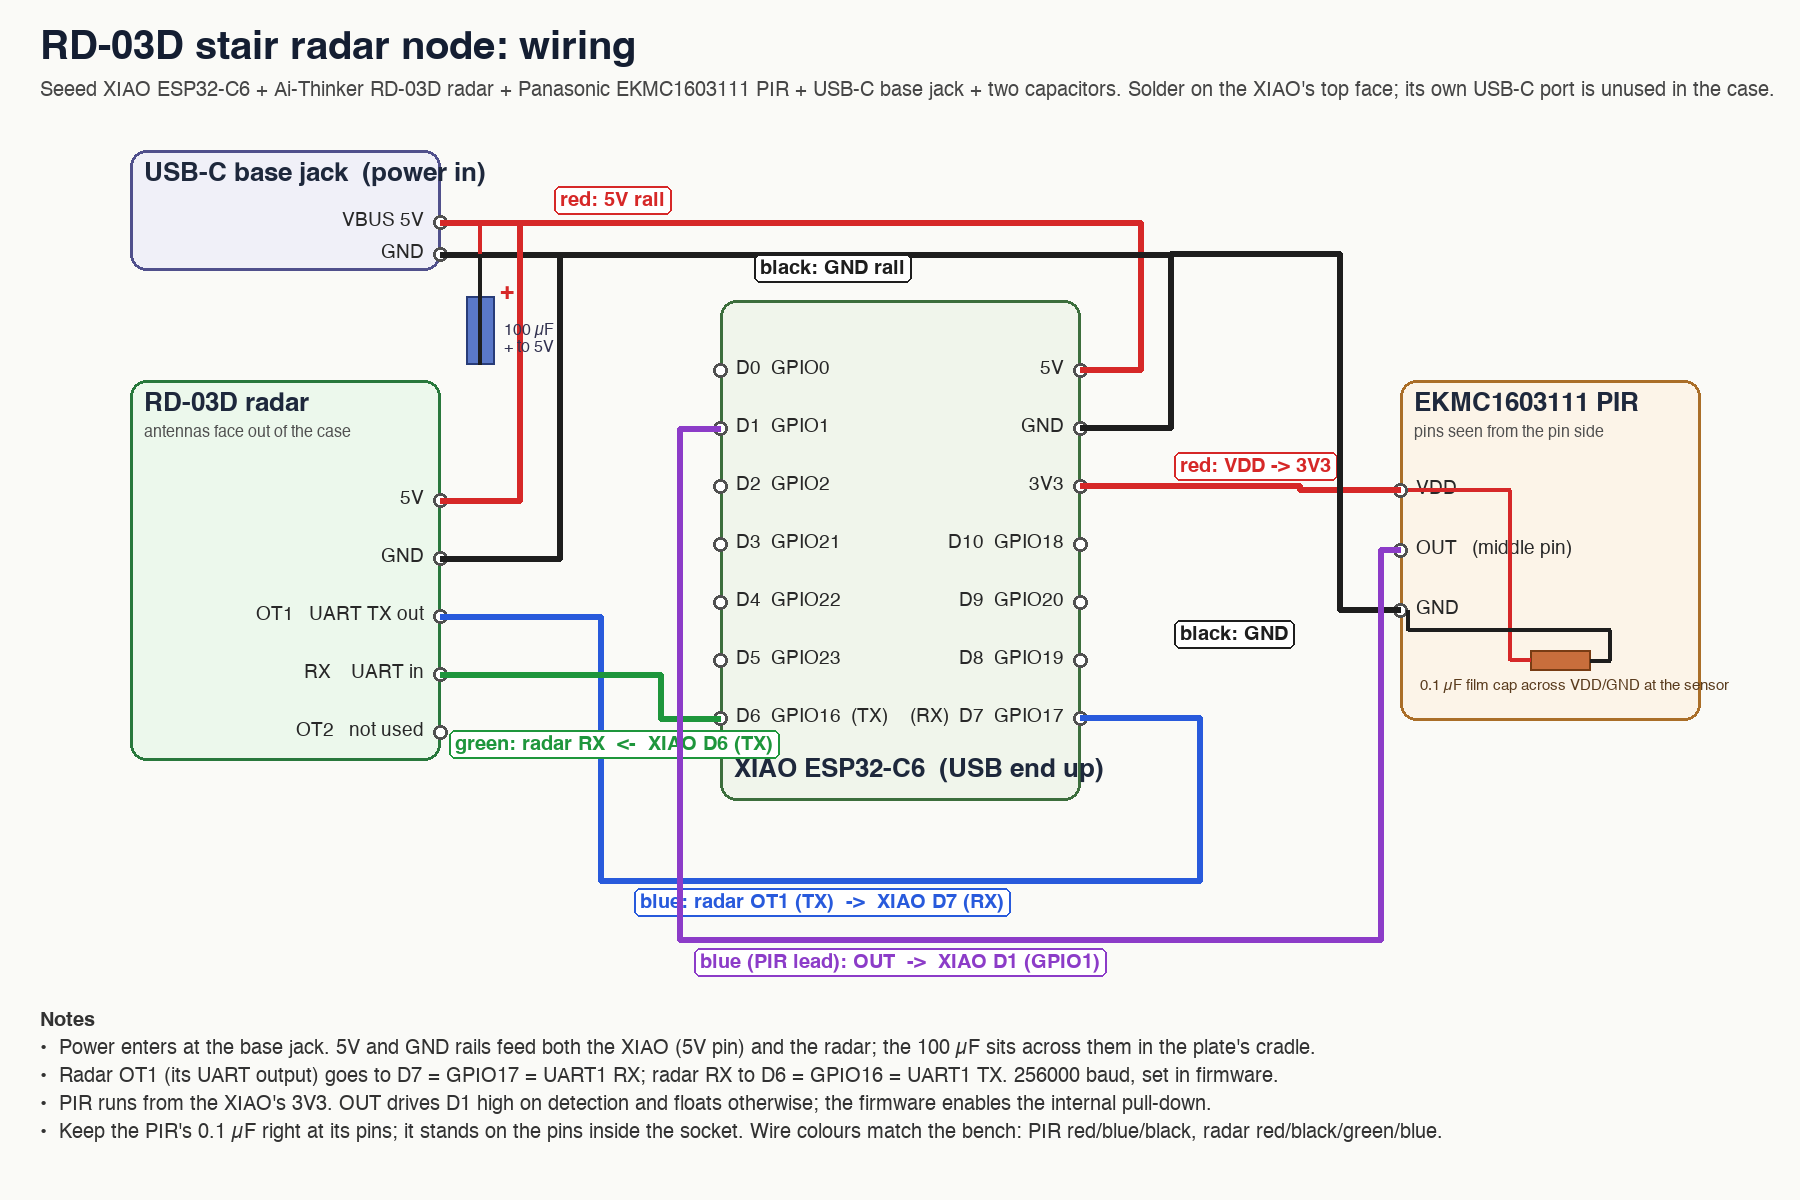
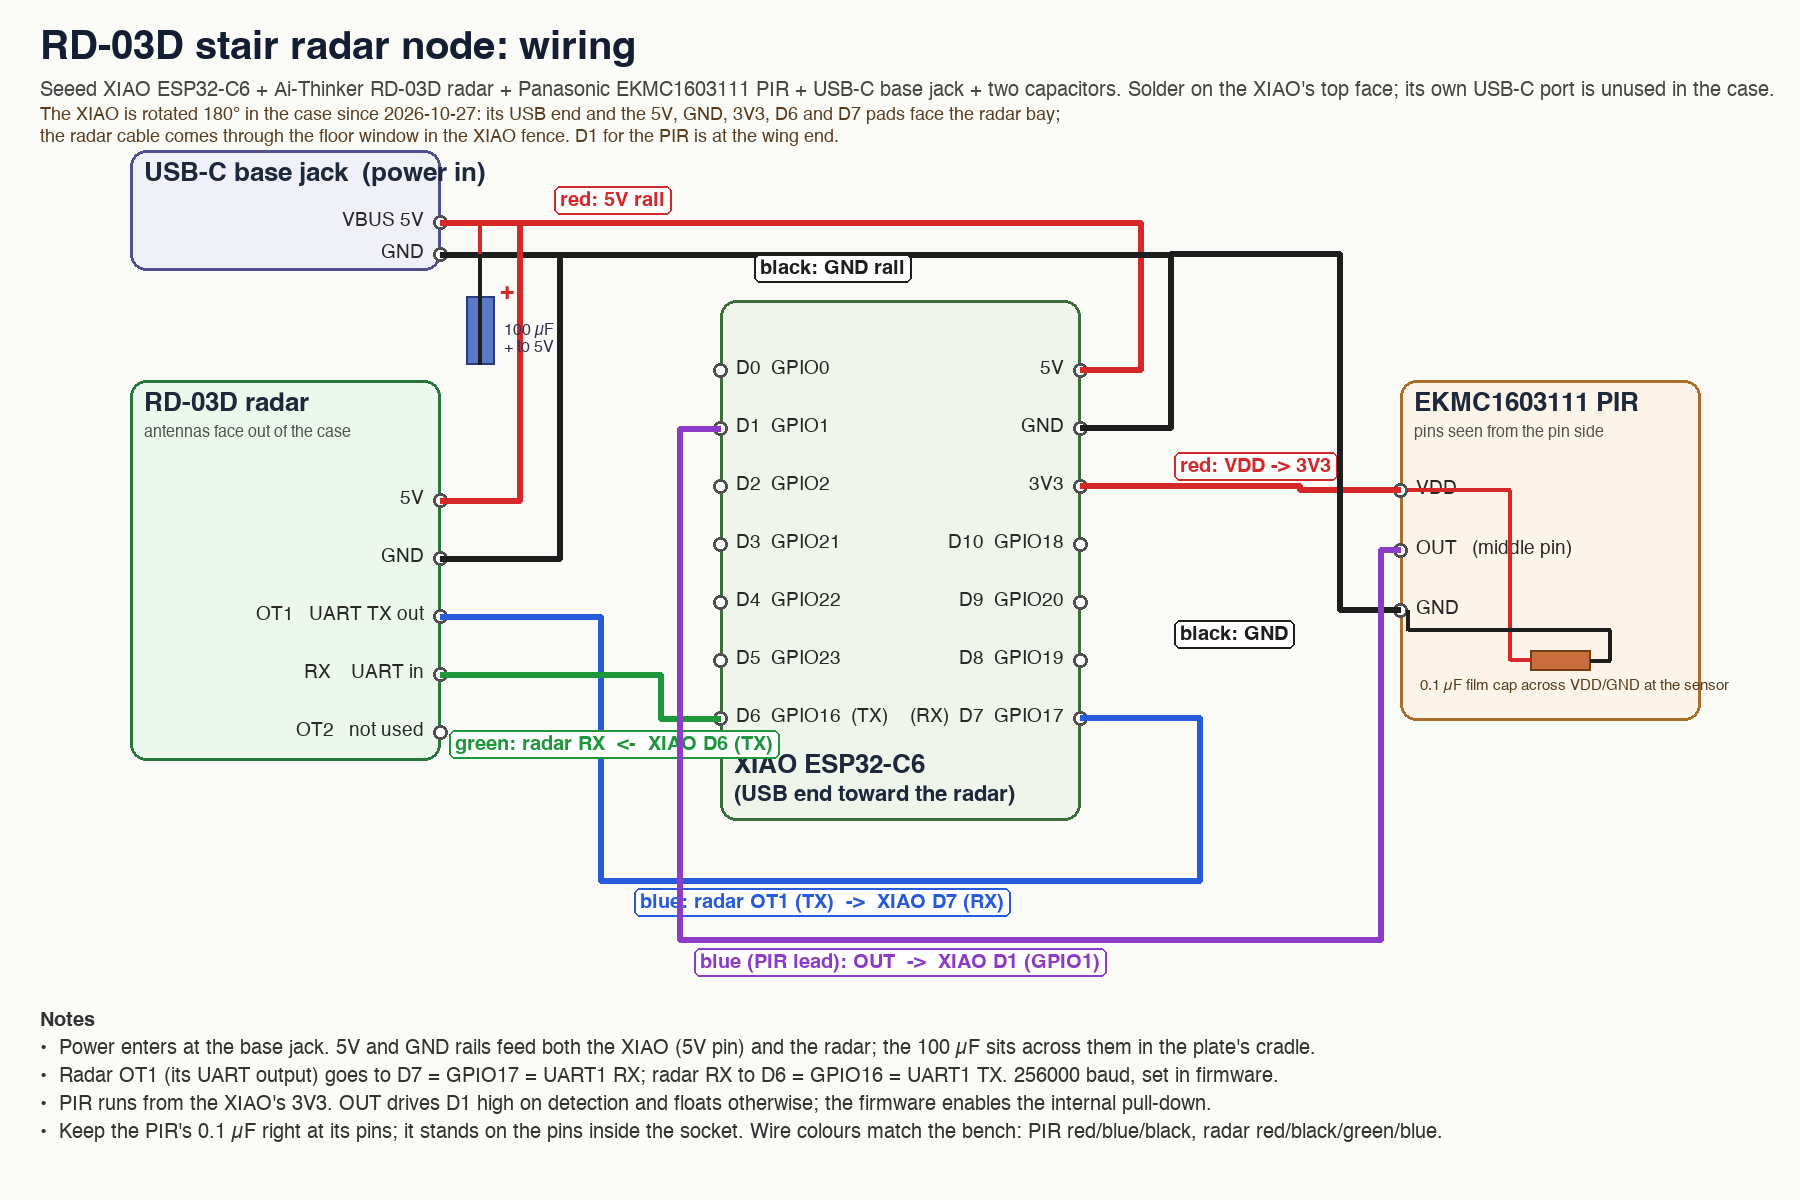
docs: wiring diagram for the rotated XIAO; as-built notes for the pin plate

Changed region(s): [[0.0311, 0.0925, 0.5911, 0.1233], [0.4044, 0.6167, 0.6222, 0.6783]]

diff --git a/docs/superpowers/plans/2026-10-27-plate-locating-pins.md b/docs/superpowers/plans/2026-10-27-plate-locating-pins.md
@@ -598,3 +598,14 @@ Co-Authored-By: Claude Fable 5.1 <noreply@anthropic.com>"
 - Verification list in the spec: Task 1 and Task 3 step 1 probes; 91 in Task 5.
 - Docs: Task 6.
 - No TBD/TODO placeholders; the only angle brackets are in the as-built template that Task 6 fills.
+
+## As built (2026-10-27)
+
+- Probe numbers behind the design (read-only, placed vendor body, case mm): notch centres (-18.25, -21.40) and (-4.75, +21.30), arc radius 1.14 confirmed from the centre in both inboard directions (1.14/1.12 and 1.14/1.16); the other two corners solid at r 1.8 roundings. Bare PCB rear at 10.46 over y -22.0..-20.7 and +19.8..+22.0 full width; connector from y -20.7, lowest z 6.64, x -15.3..-9.3; passives to z 9.0..9.3 mid-board.
+- 02 step prints: `radar bay ok (X walls + end bars bearing on the PCB ends; Y-location is the corner pins' job), bar top z(mm)= 10.46`; `radar fence +X wall opened floor to top over |y| < 9.4`; `wire window ok (XIAO fence -X wall, |y| < 3.5, z 0..5)`; `locating pins ok (O2.2 at [(-18.25, -21.4), (-4.75, 21.3)], top z 12.4, flat at |y| 22.0, 0.4 chamfer)`; clips A -3.50..3.50 top 12.50, B -20.00..-13.00 top 12.30, C 10.00..17.00 top 12.30, lips 11.80 +0.85.
+- Probe corrections during the build: the Task 1 "void above the end bar" stations were inside the pin footprints (moved 3 mm in from the walls); the z 1.0 probes at (-3.10, ±8) sat inside the XIAO's -X corner posts, which were always there (moved to |y| 4.5). Not geometry changes.
+- Shell: ribs deleted; the XIAO hold-down boss moved from x 2.5..9.5 to x 6.5..13.5 because the rotated USB shell (x -3.2..4.1, z 3.3..7.5) would have hit the old boss by 11.6 mm^3 (found by the boards script's interference check; the spec missed it).
+- 04: XIAO placed bbox x -3.23..19.23, y ±8.89, z 3.00..7.46; USB shell at x -3.23..4.07; ceramic antenna at x 17.1..19.1. The plan's probe point (-2.5, 0, 6.5) is inside the hollow USB shell and reads void; z 4.5 or 7.2 there read solid.
+- 90: VERIFY OK after Tasks 2, 3, 4 and the boss move (plate 22.723 cm3, shell 16.752 cm3, bezel 0.371 cm3). 04 interference after the boss move: only the two expected case pairs (plate/shell 69.3 mm^3, shell/bezel 18.5 mm^3) plus the XIAO vendor model's own internal sub-body overlaps; no shell/XIAO and no plate/radar pair. 91: 2 pairs, 0 unexpected, 87.7 mm^3, PIR FIT OK.
+- STL sizes: back 334,684 B, shell 158,684 B, bezel 158,284 B (bezel unchanged).
+- Print the back plate and the shell. The old shell no longer fits: its hold-down boss at x 2.5..9.5 would hit the rotated XIAO's USB shell, so the shell must be reprinted with the boss at x 6.5..13.5. The bezel is unchanged. Measure after printing: pin diameter (model 2.2), board drop-on by hand over both pins, the connector clearance to the -Y bar.

diff --git a/rd03d_uart/README.md b/rd03d_uart/README.md
@@ -27,6 +27,8 @@ join.
 | 5V | 5V |
 | GND | GND |
 
+In the case the XIAO sits with its USB end toward the radar bay (rotated 180° since the 2026-10-27 plate); the radar cable passes through the window at the foot of the XIAO fence, the PIR leads arrive at the wing end.
+
 Radar UART: 256000 baud, 8N1.
 
 ## Build & flash
